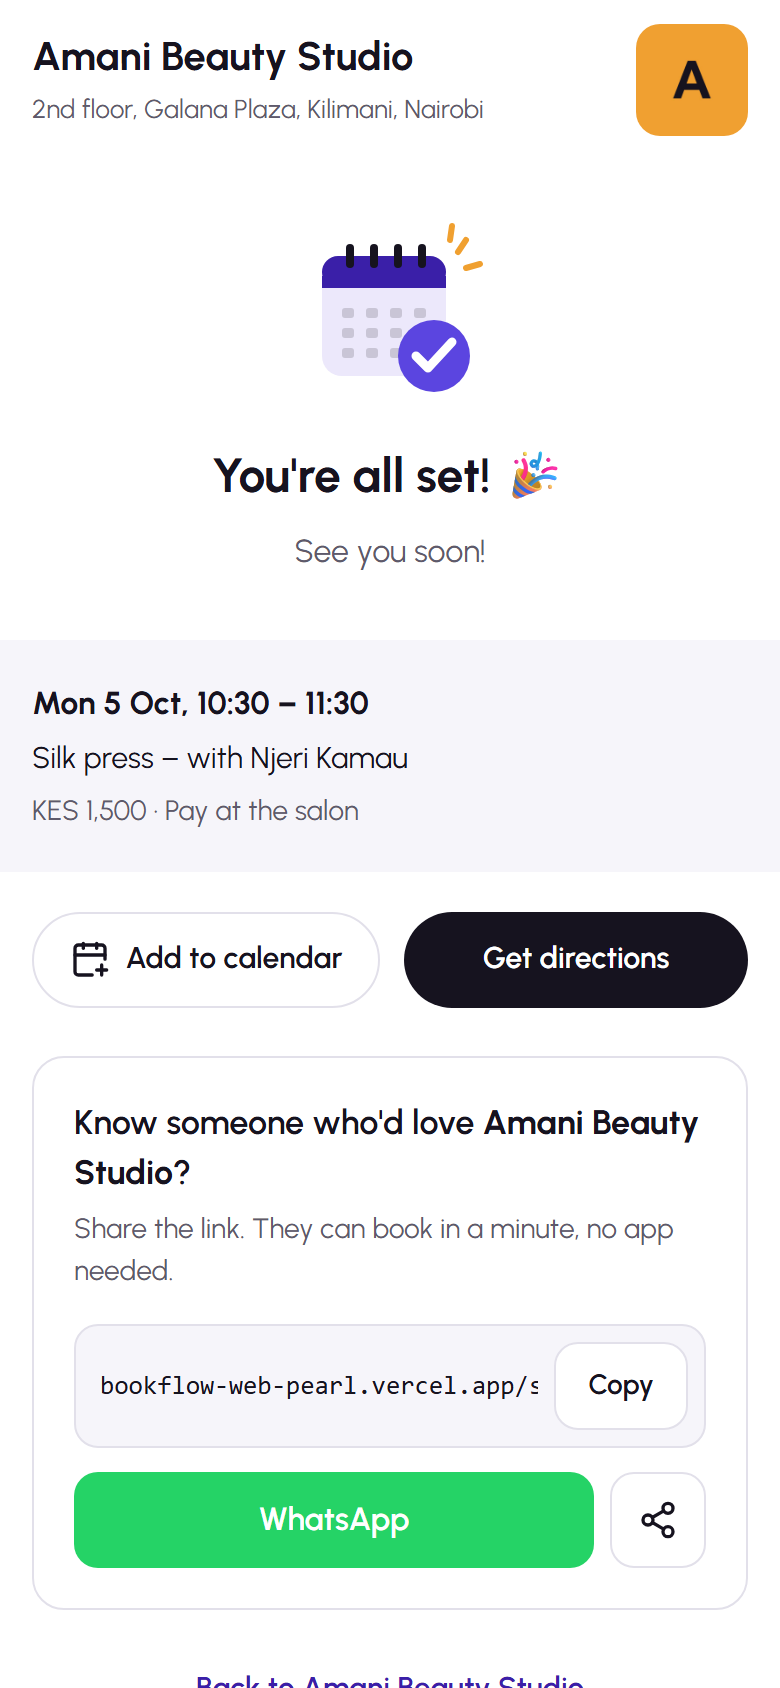
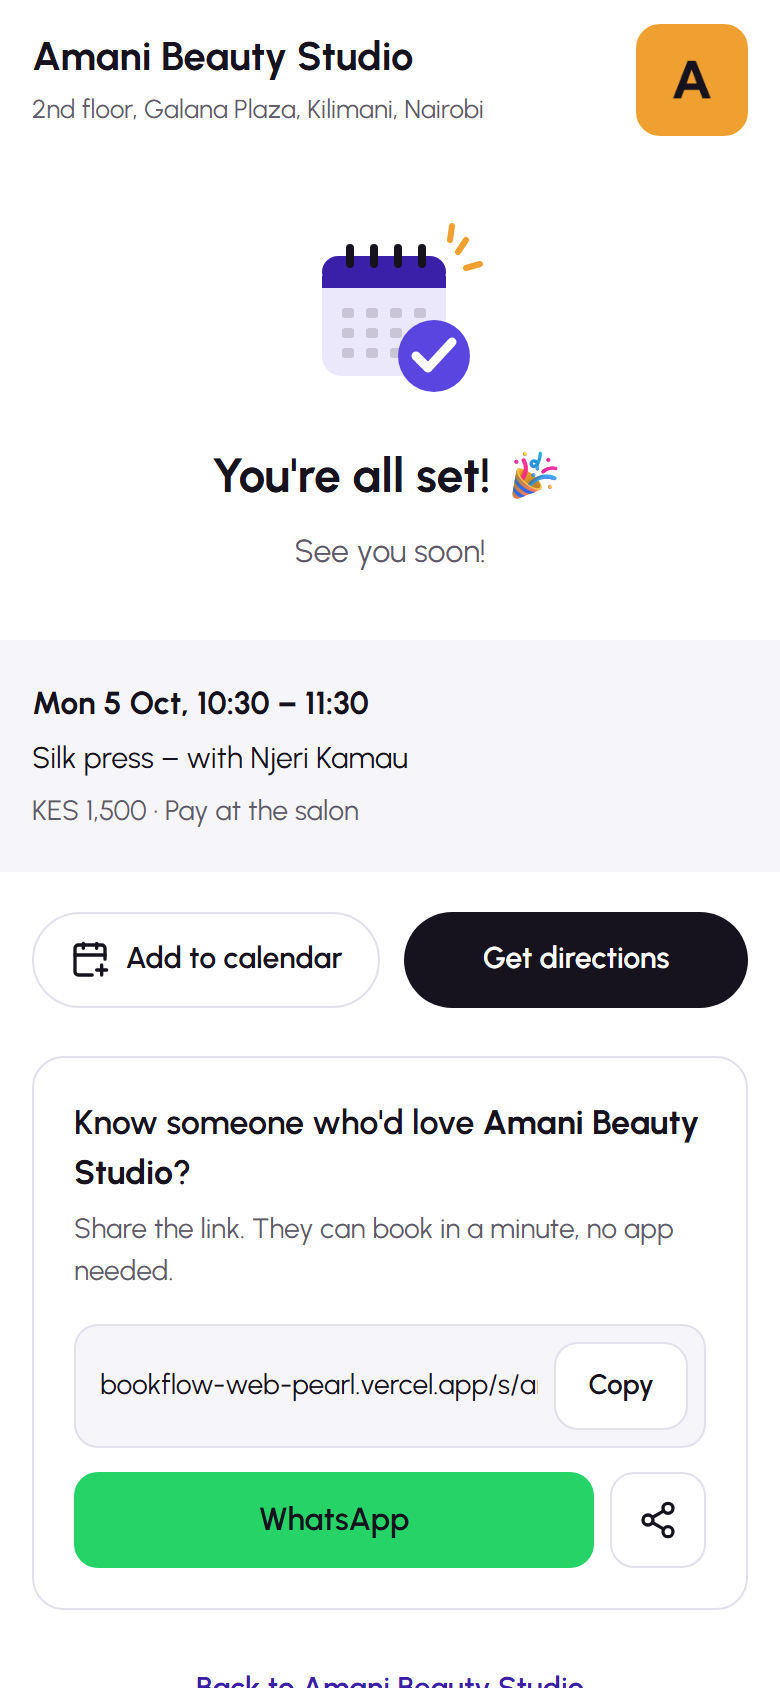
fix: WhatsApp button uses ink text; share link in Urbanist
Ink on #25D366 meets contrast; lucide-react has no WhatsApp icon to recolour.
Re-captured 11-booked.png.

Claude-Session: https://claude.ai/code/session_01UxJdr58jfqDuGELFUCdeHG

Changed region(s): [[0.1231, 0.8009, 0.6769, 0.8318], [0.3385, 0.8934, 0.5231, 0.9242]]

diff --git a/apps/web/src/app/b/[id]/share-card.tsx b/apps/web/src/app/b/[id]/share-card.tsx
@@ -35,7 +35,7 @@ export function ShareCard({ salonName, link }: { salonName: string; link: string
           id="share-link"
           readOnly
           value={link.replace(/^https:\/\//, "")}
-          className="min-w-0 flex-1 bg-transparent font-mono text-[13px] outline-none"
+          className="min-w-0 flex-1 bg-transparent text-[14px] outline-none"
         />
         <button
           type="button"
@@ -52,7 +52,7 @@ export function ShareCard({ salonName, link }: { salonName: string; link: string
           href={whatsappShareUrl(message, link)}
           target="_blank"
           rel="noopener noreferrer"
-          className="flex min-h-12 flex-1 items-center justify-center rounded-ds bg-whatsapp text-base font-semibold text-white"
+          className="flex min-h-12 flex-1 items-center justify-center rounded-ds bg-whatsapp text-base font-semibold text-ink"
         >
           WhatsApp
         </a>
